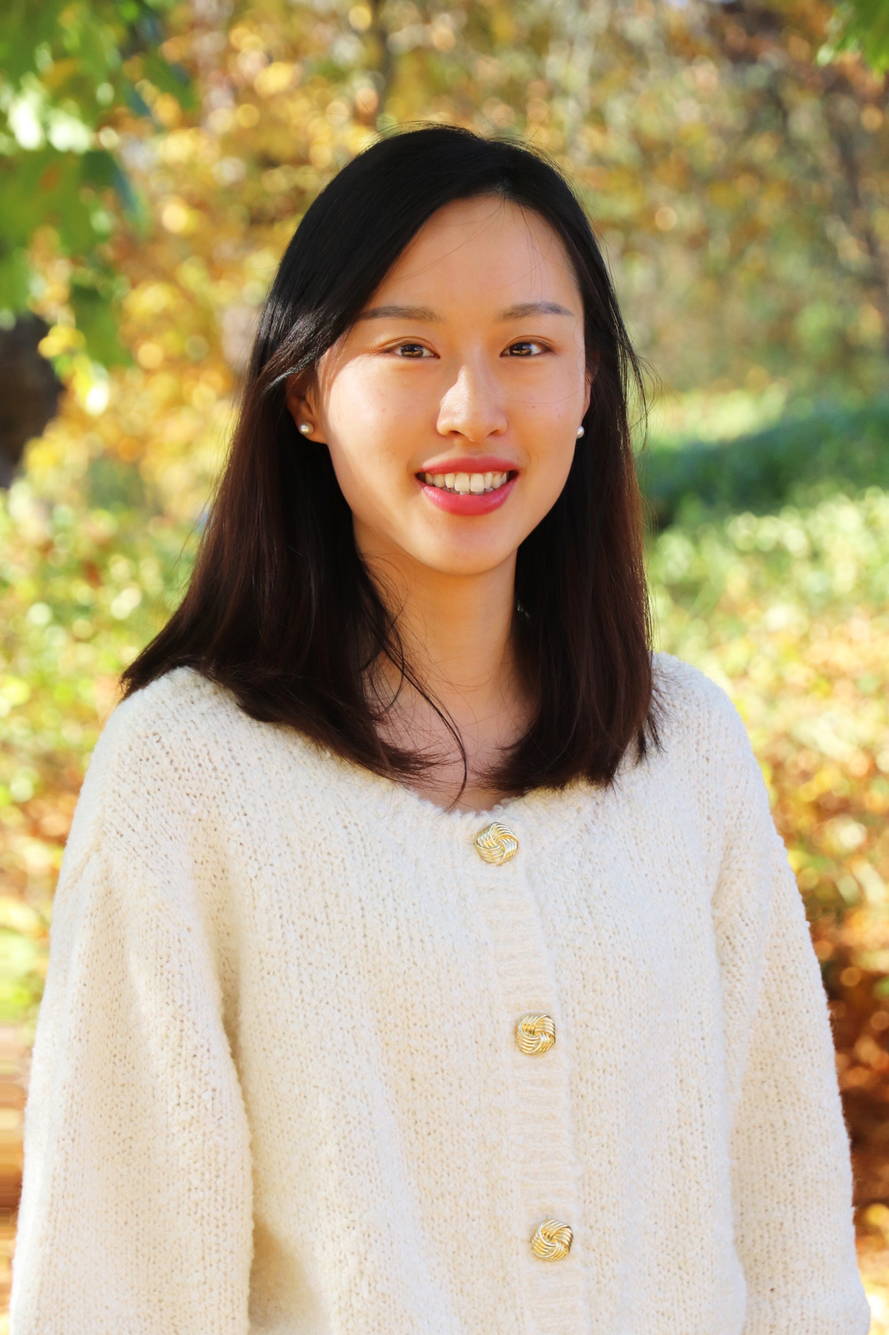
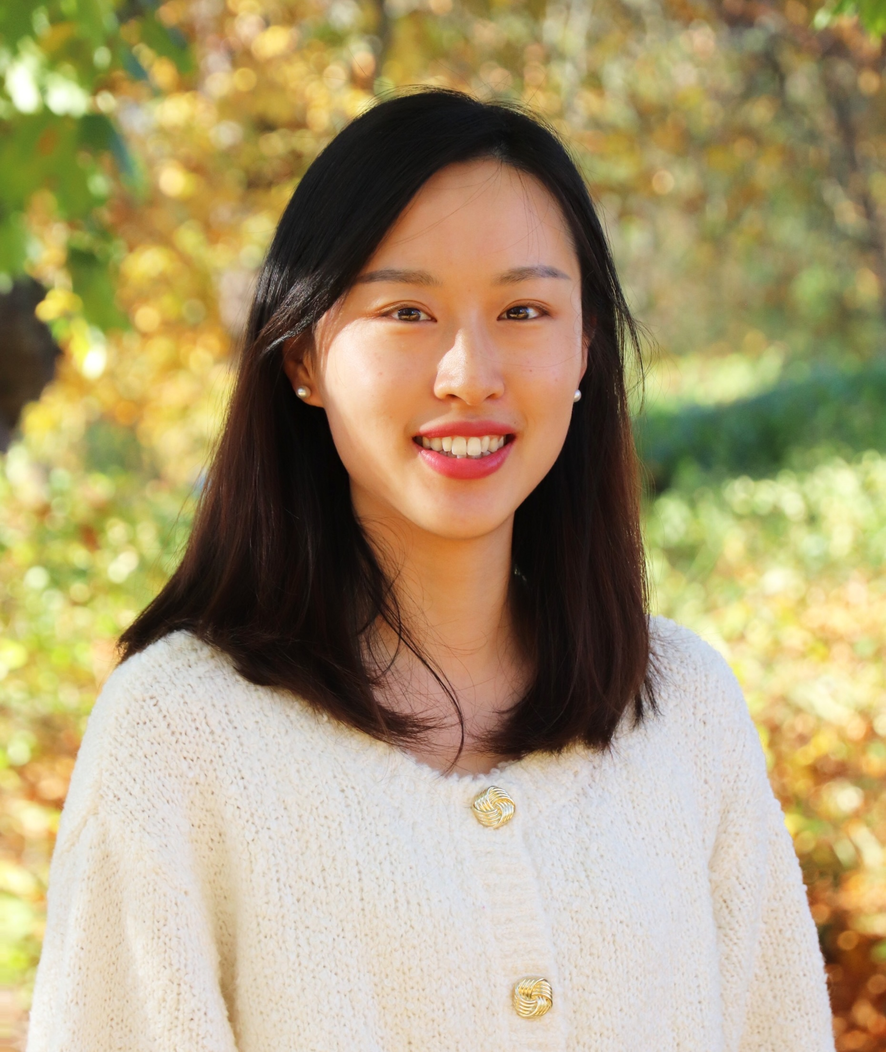
Add files via upload

diff --git a/author/jinci-liu/index.html b/author/jinci-liu/index.html
@@ -540,7 +540,7 @@
 
       
       
-      <img class="avatar avatar-circle" src="/author/jinci-liu/avatar_hubb154fc799eedaf37c5093c65594eb68_304733_270x270_fill_q90_lanczos_center.jpg" alt="Jinci Liu">
+      <img class="avatar avatar-circle" src="/author/jinci-liu/avatar_hude93b0938129abf6ed18d8f8b693778c_851742_270x270_fill_q90_lanczos_center.jpg" alt="Jinci Liu">
       
 
       <div class="portrait-title">
@@ -636,7 +636,7 @@
     <p>Welcome to my page!</p>
 <p>I’m a PhD student in economics at Institute for International Economic Studies.</p>
 <p>My research relates to labor, organizational, and personnel economics, with a particular interest in improving team productivity and innovation. Currently, I am using detailed data from GitHub and LinkedIn.</p>
-<p>I am visiting the Haas School of Business at University of California, Berkeley (Fall 2025)</p>
+<p>I am visiting the Haas School of Business at UC Berkeley (Fall 2025)</p>
 
 
     <div class="row">
